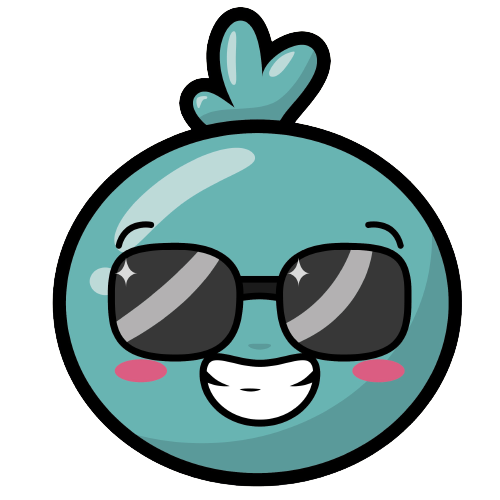
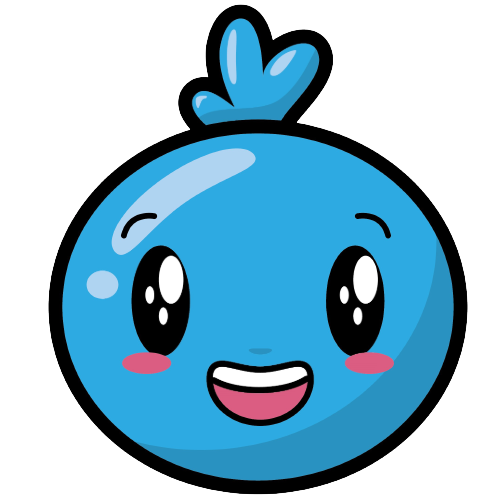
Profile and ranking page

diff --git a/src/app/components/profile/profile.component.html b/src/app/components/profile/profile.component.html
@@ -11,9 +11,14 @@
 
 <div class="d-flex justify-content-center" *ngIf="user">
   <div class="card my-3">
-    <img src="assets/avatars/{{userService.currentUser.photoUrl}}" class="mx-auto d-block mt-2" width="250" height="250">
     <div class="card-body">
-      <h3 class="text-center mb-4">{{user.nickname}}</h3>
+      <img src="assets/avatars/{{userService.currentUser.photoUrl}}" class="mx-auto d-block" width="250" height="250">
+      <div class="d-flex justify-content-between mb-4">
+        <h3>{{user.nickname}}</h3>
+        <button type="button" class="btn" data-toggle="modal" data-target="#modal">
+          <i class="fas fa-camera fa-lg"></i>
+        </button>
+      </div>
       <p>ZePoints : {{user.currentScore}} ZP</p>
       <hr>
       <h4 class="mb-3"><b>Personal information</b></h4>
@@ -25,3 +30,24 @@
 </div>
 
 
+<!-- Modal -->
+<div class="modal fade" id="modal" tabindex="-1" role="dialog" aria-labelledby="exampleModalLabel" aria-hidden="true">
+  <div class="modal-dialog modal-dialog-centered" role="document">
+    <div class="modal-content">
+      <div class="modal-header">
+        <h5 class="modal-title" id="exampleModalLabel">Modify avatar</h5>
+        <button type="button" class="close" data-dismiss="modal" aria-label="Close">
+          <span aria-hidden="true">&times;</span>
+        </button>
+      </div>
+      <div class="modal-bod">
+        <div class="d-flex justify-content-center row m-2">
+          <div *ngFor="let img of images">
+            <img src="assets/avatars/{{img}}" class="mx-auto d-block" width="100" height="100"
+                 (click)="updateAvatar(img)" data-dismiss="modal">
+          </div>
+        </div>
+      </div>
+    </div>
+  </div>
+</div>

diff --git a/src/app/components/rank/rank.component.html b/src/app/components/rank/rank.component.html
@@ -1,17 +1,28 @@
 <h3 class="my-5 text-center">World Quiz Ranking</h3>
-<table class="table table-dark table-striped">
+
+<div class="d-flex justify-content-center my-5" *ngIf="!users">
+  <div class="spinner-border text-info" role="status"></div>
+</div>
+
+<table class="table table-sm table-striped table-dark" *ngIf="users">
   <thead>
   <tr>
-    <th scope="col">Position</th>
-    <th scope="col">Nickname</th>
+    <th scope="col">#</th>
+    <th scope="col">Player</th>
     <th scope="col">ZePoints (ZP)</th>
   </tr>
   </thead>
   <tbody *ngFor="let user of users; let i = index">
   <tr>
-    <th scope="row">{{i+1}}</th>
-    <td>{{user.nickname}}</td>
-    <td>{{user.currentScore}}</td>
+    <th scope="row" class="align-middle">
+      {{i+1}}.
+    </th>
+    <td class="align-middle">
+      <img class="mr-1" src="assets/avatars/{{user.photoUrl}}"><b>{{user.nickname}}</b>
+    </td>
+    <td class="align-middle">
+      <b>{{user.currentScore}}</b>
+    </td>
   </tr>
   </tbody>
 </table>

diff --git a/src/app/components/profile/profile.component.ts b/src/app/components/profile/profile.component.ts
@@ -14,10 +14,13 @@ export class ProfileComponent implements OnInit {
   roles = new RoleModel();
   role: string;
   errMsg: string;
-
+  images: string[];
   constructor(private userService: UserService) { }
 
   ngOnInit(): void {
+    this.images = ['avatar_1.png', 'avatar_2.png', 'avatar_3.png', 'avatar_4.png',
+      'avatar_5.png', 'avatar_6.png', 'avatar_7.png', 'avatar_8.png'];
+
     this.userService.getUserById().subscribe(user => {
       this.user = user;
       switch (this.user.permissionLevel.toString()) {
@@ -46,4 +49,7 @@ export class ProfileComponent implements OnInit {
     return new Promise(resolve => setTimeout(resolve, milliseconds))
   }
 
+  updateAvatar(image: string) {
+    this.userService.updateAvatar(image).subscribe(user => this.userService.currentUser = user);
+  }
 }

diff --git a/api/controllers/authentication.controller.js b/api/controllers/authentication.controller.js
@@ -128,6 +128,19 @@ class AuthenticationController {
     return res.status(400).end();
   }
 
+  async updateAvatar(req, res) {
+    if (req.body.avatar) {
+      try {
+        await User.updateOne({_id: req.decoded.id}, {photoUrl: req.body.avatar});
+        const user = await User.findOne({_id: req.decoded.id});
+        return res.status(200).json(user);
+      } catch (e) {
+        return res.status(500).end();
+      }
+    }
+    return res.status(400).end();
+  }
+
   async getRanks(req, res) {
     try {
       const users = await User.find().sort({currentScore: -1}).limit(20);

diff --git a/src/app/components/home/home.component.html b/src/app/components/home/home.component.html
@@ -1,3 +1,12 @@
+<div class="alert alert-primary alert-dismissible fade show" role="alert">
+  <i class="fas fa-info-circle fa-lg ml-3"></i>
+  You can change your avatar in the profile page.
+  <b><a routerLink="/profile">Here to change !</a></b>
+  <button type="button" class="close" data-dismiss="alert" aria-label="Close">
+    <span aria-hidden="true">&times;</span>
+  </button>
+</div>
+
 <div class="mt-4 text-center">
   <div class="d-flex justify-content-center">
     <img src="../../assets/logo_light.png" height="60">

diff --git a/src/app/ressources/user.service.ts b/src/app/ressources/user.service.ts
@@ -55,4 +55,14 @@ export class UserService {
     };
     return this.http.post<any>(environment.baseApiUrl + 'update/score',{score: score, opponentScore: opponentScore}, options);
   }
+
+  updateAvatar(avatar: string): Observable<any> {
+    const options = {
+      headers: new HttpHeaders({
+        'Access-Control-Allow-Origin': '*',
+        'Authorization': 'Bearer ' + localStorage.getItem('token')
+      })
+    };
+    return this.http.post<any>(environment.baseApiUrl + 'update/avatar',{avatar}, options);
+  }
 }

diff --git a/api/routes/authentication.route.js b/api/routes/authentication.route.js
@@ -31,5 +31,8 @@ module.exports = function (app) {
     async (req, res, next) => authMiddleware.verifyToken(req, res, next),
     async (req, res) => controller.updateScore(req, res)
   );
-
+  app.post(process.env.API_URL + '/update/avatar', bodyParser.json(),
+    async (req, res, next) => authMiddleware.verifyToken(req, res, next),
+    async (req, res) => controller.updateAvatar(req, res)
+  );
 };

diff --git a/api/middlewares/permission.middleware.js b/api/middlewares/permission.middleware.js
@@ -3,7 +3,6 @@ class PermissionMiddleware {
   permissionRequire(req, res, next, permissionList) {
     let authorization = false;
     for(let level of permissionList) {
-      console.log(req.decoded.permissionLevel.toString());
       if (req.decoded.permissionLevel.toString() === level) {
         authorization = true;
       }

diff --git a/src/app/components/rank/rank.component.css b/src/app/components/rank/rank.component.css
@@ -1,0 +1,11 @@
+img {
+  max-width: 80px;
+  max-height: 80px;
+}
+
+@media screen and (max-width: 768px) {
+  img {
+    max-width: 50px;
+    max-height: 50px;
+  }
+}

diff --git a/src/app/components/profile/profile.component.css b/src/app/components/profile/profile.component.css
@@ -1,4 +1,4 @@
-p {
+p, h3 {
   margin-bottom: 0;
 }
 
